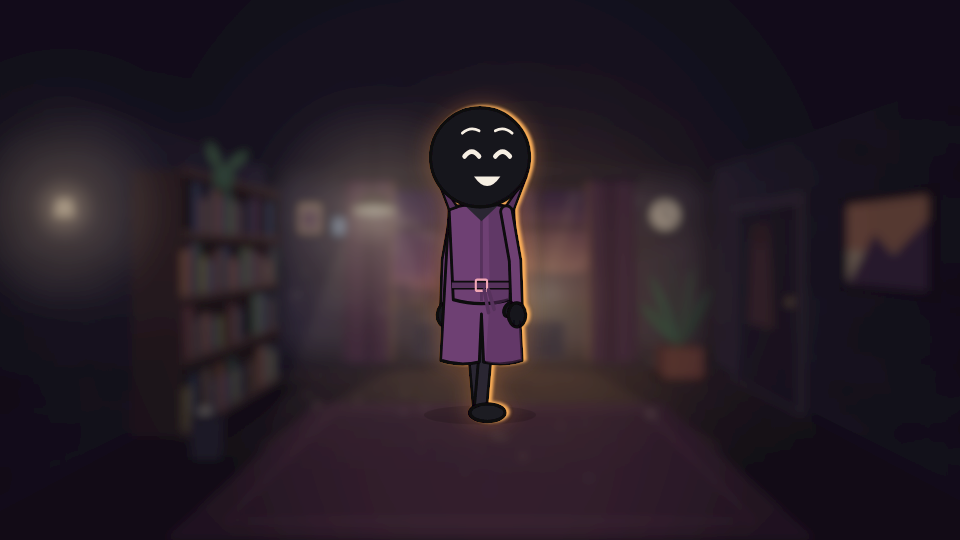
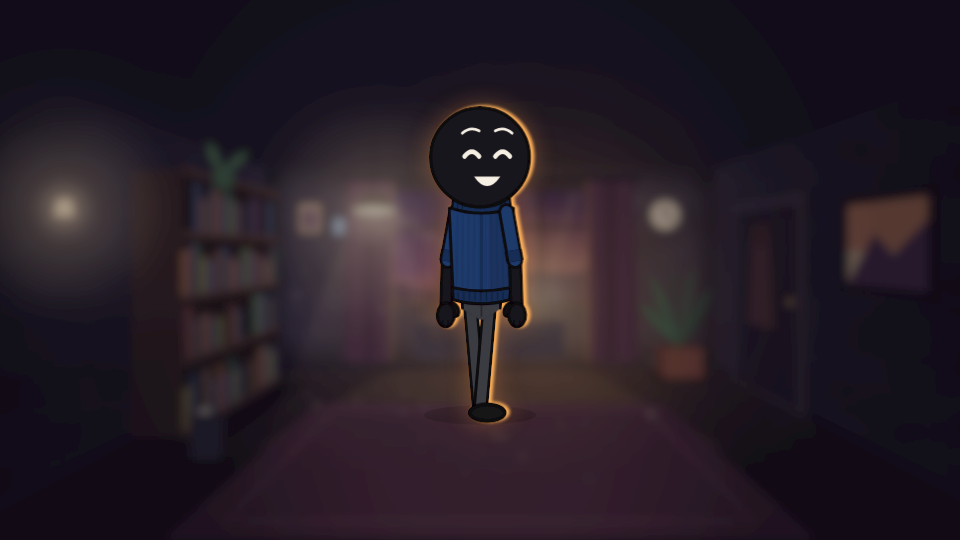
Hero outfit, open eyes, joined hips; only the hero is dressed, skins pure black or white
- The hero's outfit: a navy fine-knit mock-neck sweater (new coat: 'sweater',
  ribbed collar, hem and cuffs) with the sleeves pushed to the elbow (new
  sleeveLength: 'elbow'), charcoal trousers, black shoes.
- Eyes are clearly open at rest for every character; the calm curved line
  eyes now only show when smug, cool or tired.
- A trouser seat joins the tops of the thighs to the body, so no character
  has a gap at the crotch (stick-limbed looks excepted).
- New plain(look, tone?): no costume at all and a pure black or pure white
  skin. Rule in SKILL.md: only the hero wears clothes, every other character
  is plain(), and the person decides every outfit.

The shipped example episodes are unchanged.

Changed region(s): [[0.4375, 0.3259, 0.5625, 0.6815]]

diff --git a/studio/src/engine/rig.tsx b/studio/src/engine/rig.tsx
@@ -35,10 +35,13 @@ export type Look = {
   /** The item's main colour (defaults per item). */
   itemColor?: string;
   /** A jacket cut drawn over the torso (the plain top when unset). */
-  coat?: 'biker' | 'bomber' | 'denim' | 'long';
+  coat?: 'biker' | 'bomber' | 'denim' | 'long' | 'sweater';
   /** Arm colour, when the sleeves differ from the legs (a jacket's sleeves); defaults to limb. */
   sleeve?: string;
-  /** Face style: dot (the default), big (white eyes with pupils), bean (tall capsules), line (calm line eyes at rest). */
+  /** elbow: sleeves end at the elbow (pushed up), the forearm shows in the hand colour; full (default) to the wrist. */
+  sleeveLength?: 'full' | 'elbow';
+  /** Face style: dot (the default), big (white eyes with pupils), bean (tall capsules), line (open dots at rest, calm
+   *  curved line eyes when smug, cool or tired). */
   eyes?: 'dot' | 'big' | 'bean' | 'line';
   /** thick: heavy brows that are always on and carry the emotion. */
   brows?: 'thin' | 'thick' | 'slim';
@@ -46,6 +49,8 @@ export type Look = {
   blush?: boolean;
   /** A small lash flick at the outer corner of each eye. */
   lashes?: boolean;
+  /** No costume at all (set by plain()): no zip line on the body, no headphones. */
+  bare?: boolean;
   /** A single springy curl on top instead of the tuft; it reacts to the expression (stands up, droops, spins). */
   curl?: boolean;
   /** The face takes a soft colour wash per expression (warm when happy, blue when shocked...). */
@@ -57,16 +62,17 @@ export type Look = {
 };
 export type CastName = 'hero' | 'heroine' | 'pip' | 'pipHood' | 'pipInk' | 'mo' | 'sis' | 'mom' | 'suit';
 export const LOOKS: Record<CastName, Look> = {
-  // THE CHANNEL'S HERO (picked 2026-11-09): a dark, bald round head lit by the rim light, cream features that rest in
-  // calm curved line eyes (they open to dots when something happens) and slim, always-on arched brows that do the
-  // acting. The plum long coat is only the default outfit: costumes change per episode, e.g.
+  // THE CHANNEL'S HERO (picked 2026-11-09): a dark, bald round head lit by the rim light, cream features with eyes
+  // clearly open at rest (calm curved line eyes only when smug, cool or tired) and slim, always-on arched brows that
+  // do the acting. The navy mock-neck sweater (sleeves at the elbow), charcoal trousers and black shoes are only the default outfit: costumes change per
+  // episode, e.g.
   // { ...LOOKS.hero, coat: 'bomber', jacket: '#2F5D50', jacketShade: '#244A40', sleeve: '#2F5D50', accent: '#FFC266' }.
   // Keep the face (skin, face, eyes, brows, no hair) fixed: that is the identity.
   // THE CHANNEL'S FEMALE CHARACTER (supporting, cast only when a story needs her; the hero leads): the hero's face exactly, plus a short lash flick at the outer corner of each eye. That
   // face is fixed; her hair is free per episode (extra: 'ponytail' | 'topbun' | 'bob' | 'bunches' ..., colour in
   // hair, a shade lighter than the head so the shape reads), like the outfit.
   heroine: { skin: '#17141C', skinShade: '#0E0C12', hand: '#17141C', line: '#08070B', face: '#F6EFE3', hair: '#3A2E44', extra: 'ponytail', accent: '#F1A7B5', eyes: 'line', brows: 'slim', lashes: true, coat: 'denim', jacket: '#4A6FA5', jacketShade: '#3A5884', sleeve: '#4A6FA5', limb: '#2A2733', shoe: '#1C1B22' },
-  hero: { skin: '#17141C', skinShade: '#0E0C12', hand: '#17141C', line: '#08070B', face: '#F6EFE3', hair: '#17141C', eyes: 'line', brows: 'slim', coat: 'long', jacket: '#6E3F73', jacketShade: '#57315B', accent: '#F1A7B5', sleeve: '#6E3F73', limb: '#2A2733', shoe: '#1C1B22' },
+  hero: { skin: '#17141C', skinShade: '#0E0C12', hand: '#17141C', line: '#08070B', face: '#F6EFE3', hair: '#17141C', eyes: 'line', brows: 'slim', coat: 'sweater', jacket: '#1F3A6B', jacketShade: '#172D54', accent: '#1F3A6B', sleeve: '#1F3A6B', sleeveLength: 'elbow', limb: '#3A3A42', shoe: '#121216' },
   // A: Pip as built
   pip: { skin: C.skin, skinShade: C.skinShade, hand: C.skin, jacket: C.jacket, jacketShade: C.jacketShade, accent: C.jacketShade, limb: C.limb, line: C.ink, shoe: C.shoe, face: C.ink, hair: C.ink },
   // B: Pip in a dark hoodie with mustard drawstrings: the body goes dark and catches the rim light, the head stays the brightest thing
@@ -80,6 +86,46 @@ export const LOOKS: Record<CastName, Look> = {
   sis: { skin: C.skin, skinShade: C.skinShade, hand: C.skin, jacket: '#3E8C86', jacketShade: '#2F6E69', accent: '#F28C6A', limb: '#3A3446', line: '#14121C', shoe: '#F28C6A', face: C.ink, hair: '#3A2620', extra: 'bunches' },
   mom: { skin: C.skin, skinShade: C.skinShade, hand: C.skin, jacket: '#8A5A6A', jacketShade: '#704858', accent: '#E9C46A', limb: '#3A3446', line: '#14121C', shoe: '#5A4A6A', face: C.ink, hair: '#5A3226', extra: 'bob' },
   suit: { skin: '#D9C6AE', skinShade: '#C2AE96', hand: '#D9C6AE', jacket: '#2B2F3A', jacketShade: '#20232C', accent: '#A8323E', limb: '#2B2F3A', line: '#0E0F14', shoe: '#14151A', face: C.ink, hair: '#17141A', extra: 'suit' },
+};
+
+/** The channel's only two skin tones: fully black (cream features) or fully white (dark features). */
+export const TONES = {
+  black: { skin: '#17141C', skinShade: '#0E0C12', hand: '#17141C', line: '#08070B', face: '#F6EFE3' },
+  white: { skin: '#F7F4EE', skinShade: '#E4DFD6', hand: '#F7F4EE', line: '#15121C', face: '#1D2033' },
+};
+export type Tone = keyof typeof TONES;
+const isDark = (hex: string) => {
+  const n = parseInt(hex.replace('#', ''), 16);
+  const lum = (0.299 * ((n >> 16) & 255) + 0.587 * ((n >> 8) & 255) + 0.114 * (n & 255)) / 255;
+  return lum < 0.45;
+};
+
+/**
+ * A character with no costume and a pure black or pure white skin: the whole body takes the skin colour (a clean black
+ * or white stick silhouette), with no jacket, collar, sleeves, shoes, hat, hood, headphones or carried item. The face
+ * shape, hair and lashes stay. `tone` picks black or white; left out, a dark skin becomes black and a light one white.
+ * The channel's rule: in every episode, every character except the hero appears plain(...) unless the person asks
+ * for a specific outfit.
+ */
+export const plain = (look: Look, tone?: Tone): Look => {
+  const clothing: Look['extra'][] = ['hood', 'suit', 'bucket', 'beanie', 'cap', 'beret'];
+  const T = TONES[tone ?? (isDark(look.skin) ? 'black' : 'white')];
+  const L = { ...look, ...T };
+  return {
+    ...L,
+    jacket: L.skin,
+    jacketShade: L.skinShade,
+    accent: L.skin,
+    limb: L.skin,
+    shoe: L.skin,
+    sleeve: undefined,
+    sleeveLength: undefined,
+    coat: undefined,
+    item: undefined,
+    itemColor: undefined,
+    extra: clothing.includes(L.extra) ? undefined : L.extra,
+    bare: true,
+  };
 };
 
 // ---------- the hero ----------
@@ -275,7 +321,7 @@ const Face: React.FC<{ expr: Expr; blink: number; look: number; glasses: number;
           {expr === 'tired' ? <path d={`M ${cx - 12} ${eyeY + 15} Q ${cx} ${eyeY + 22} ${cx + 12} ${eyeY + 15}`} stroke="#8C7AA6" strokeWidth={4.5} fill="none" strokeLinecap="round" opacity={0.85} /> : null}
         </g>
       );
-    if (eyes === 'line' && (expr === 'neutral' || expr === 'smug' || expr === 'cool' || expr === 'tired'))
+    if (eyes === 'line' && (expr === 'smug' || expr === 'cool' || expr === 'tired'))
       return (
         <g>
           <path d={`M ${cx - 12} ${eyeY - 2} Q ${cx} ${eyeY + 6} ${cx + 12} ${eyeY - 2}`} stroke={ink} strokeWidth={5.5} fill="none" strokeLinecap="round" />
@@ -343,7 +389,7 @@ const Face: React.FC<{ expr: Expr; blink: number; look: number; glasses: number;
             if (farHidden && Math.sign(cx) === farSide) return null;
             const o = Math.sign(cx);
             // where the outer corner of this eye shape sits, then a short flick up and out from it
-            const calm = eyes === 'line' && (expr === 'neutral' || expr === 'smug' || expr === 'cool' || expr === 'tired');
+            const calm = eyes === 'line' && (expr === 'smug' || expr === 'cool' || expr === 'tired');
             const shut = blink >= 0.95;
             const [x0, y0] = expr === 'happy' ? [cx + o * 10, eyeY + 3] : calm || shut ? [cx + o * 12, eyeY - 2] : eyes === 'big' ? [cx + o * 13, eyeY - 9] : [cx + o * 6, eyeY - 7];
             return <path key={`lash${cx}`} d={`M ${x0} ${y0} q ${o * 3.5} -1.5 ${o * 6} -5.5`} stroke={ink} strokeWidth={3.4} fill="none" strokeLinecap="round" />;
@@ -419,6 +465,31 @@ export const Hero: React.FC<{ pose: Pose; shadow?: number; rimId?: string; look?
       </g>
     );
   };
+  const arm = (o: { root: P; mid: P; end: P }) => {
+    const sleeve = L.sleeve ?? L.limb;
+    if (L.sleeveLength !== 'elbow' || L.limbStyle === 'stick') return limb(o, 11, sleeve);
+    const up = `M ${o.root.x} ${o.root.y} L ${o.mid.x} ${o.mid.y}`;
+    const fore = `M ${o.mid.x} ${o.mid.y} L ${o.end.x} ${o.end.y}`;
+    const len = Math.hypot(o.mid.x - o.root.x, o.mid.y - o.root.y) || 1;
+    const ux = (o.mid.x - o.root.x) / len;
+    const uy = (o.mid.y - o.root.y) / len;
+    const band = `M ${o.mid.x - ux * 13} ${o.mid.y - uy * 13} L ${o.mid.x + ux * 1} ${o.mid.y + uy * 1}`;
+    return (
+      <g>
+        <path d={fore} stroke={L.line} strokeWidth={18} fill="none" strokeLinecap="round" />
+        <path d={fore} stroke={L.hand} strokeWidth={11} fill="none" strokeLinecap="round" />
+        <path d={up} stroke={L.line} strokeWidth={21} fill="none" strokeLinecap="round" />
+        <path d={up} stroke={sleeve} strokeWidth={14} fill="none" strokeLinecap="round" />
+        {L.coat === 'sweater' ? (
+          // the ribbed cuff, pushed up to the elbow
+          <g>
+            <path d={band} stroke={L.line} strokeWidth={22} strokeLinecap="butt" />
+            <path d={band} stroke={L.jacketShade} strokeWidth={15} strokeLinecap="butt" />
+          </g>
+        ) : null}
+      </g>
+    );
+  };
   const shoe = (o: { root: P; mid: P; end: P }) => (
     <ellipse cx={o.end.x + pose.facing * 9} cy={o.end.y + 4} rx={22} ry={11} fill={L.shoe} stroke={L.line} strokeWidth={4} />
   );
@@ -428,6 +499,13 @@ export const Hero: React.FC<{ pose: Pose; shadow?: number; rimId?: string; look?
     const ang = (Math.atan2(o.end.x - o.mid.x, o.end.y - o.mid.y) * 180) / Math.PI;
     return (
       <g transform={`translate(${o.end.x} ${o.end.y}) rotate(${-ang})`}>
+        {L.coat === 'sweater' && L.sleeveLength !== 'elbow' ? (
+          // the sweater's ribbed cuff, gathered at the wrist
+          <g>
+            <rect x={-10} y={-20} width={20} height={17} rx={5} fill={L.jacketShade} stroke={L.line} strokeWidth={3.5} />
+            <path d="M -4.5 -17 L -4.5 -6 M 0 -17 L 0 -6 M 4.5 -17 L 4.5 -6" stroke={L.line} strokeWidth={1.6} opacity={0.4} />
+          </g>
+        ) : null}
         {kind === 'point' ? (
           <g>
             <rect x={-4} y={10} width={8} height={24} rx={4} fill={L.hand} stroke={L.line} strokeWidth={3.5} />
@@ -463,7 +541,7 @@ export const Hero: React.FC<{ pose: Pose; shadow?: number; rimId?: string; look?
       ) : null}
       <path d="M -46 -112 Q 0 -124 46 -112 L 40 2 Q 0 12 -40 2 Z" fill={L.jacket} stroke={L.line} strokeWidth={4} strokeLinejoin="round" />
       <path d="M 10 -116 Q 30 -114 46 -112 L 40 2 Q 26 8 12 9 Z" fill={L.jacketShade} opacity={0.55} />
-      <path d="M 0 -112 L 0 4" stroke={L.jacketShade} strokeWidth={4} />
+      {L.bare ? null : <path d="M 0 -112 L 0 4" stroke={L.jacketShade} strokeWidth={4} />}
       {L.extra === 'suit' ? (
         // a white shirt in the V of the jacket and a tie in the accent colour
         <g>
@@ -474,6 +552,23 @@ export const Hero: React.FC<{ pose: Pose; shadow?: number; rimId?: string; look?
       ) : L.coat ? null : (
         <path d="M -22 -118 Q 0 -100 22 -118" stroke={L.accent} strokeWidth={6} fill="none" strokeLinecap="round" />
       )}
+      {L.coat === 'sweater' ? (
+        // a fine-knit mock-neck sweater: a ribbed band standing round the base of the neck, a soft vertical knit
+        // texture, a ribbed hem band; the cuffs are drawn at the wrists
+        <g>
+          {[-34, -26, -18, -10, -2, 6, 14, 22, 30].map((x) => (
+            <path key={x} d={`M ${x} -104 L ${x * 1.04} -14`} stroke={L.jacketShade} strokeWidth={1.6} opacity={0.45} />
+          ))}
+          <path d="M -41 -13 Q 0 -5 41 -13 L 40 2 Q 0 12 -40 2 Z" fill={L.jacketShade} stroke={L.line} strokeWidth={3.5} strokeLinejoin="round" />
+          {[-33, -25, -17, -9, -1, 7, 15, 23, 31].map((x) => (
+            <path key={`h${x}`} d={`M ${x} ${-9 + Math.abs(x) * 0.06} L ${x} ${4 - Math.abs(x) * 0.08}`} stroke={L.line} strokeWidth={1.6} opacity={0.35} />
+          ))}
+          <path d="M -42 -112 Q 0 -100 42 -112 L 40 -129 Q 0 -119 -40 -129 Z" fill={L.jacketShade} stroke={L.line} strokeWidth={3.5} strokeLinejoin="round" />
+          {[-34, -27, 27, 34].map((x) => (
+            <path key={`c${x}`} d={`M ${x} -125 L ${x} -111`} stroke={L.line} strokeWidth={1.6} opacity={0.4} />
+          ))}
+        </g>
+      ) : null}
       {L.coat === 'biker' ? (
         // a biker jacket: wide lapels, an off-centre zip in the accent (metal) colour, zipped pockets, a belt at the hem
         <g>
@@ -727,9 +822,18 @@ export const Hero: React.FC<{ pose: Pose; shadow?: number; rimId?: string; look?
         <g transform={`translate(0 ${LEG_LEN}) scale(${1 + 0.6 * pose.squash} ${1 - pose.squash}) translate(0 ${-LEG_LEN})`}>
           {/* the far side is drawn first, so a turned body overlaps itself the right way */}
           {pose.yaw < 0 ? <>{limb(j.legR, 12)}{shoe(j.legR)}{limb(j.legL, 12)}{shoe(j.legL)}</> : <>{limb(j.legL, 12)}{shoe(j.legL)}{limb(j.legR, 12)}{shoe(j.legR)}</>}
-          {pose.yaw < 0 ? <>{limb(j.armR, 11, L.sleeve ?? L.limb)}{hand(j.armR, -1, pose.handR)}</> : <>{limb(j.armL, 11, L.sleeve ?? L.limb)}{hand(j.armL, 1, pose.handL)}</>}
+          {L.limbStyle === 'stick' ? null : (
+            // the seat of the trousers: fills the crotch between the tops of the thighs so the legs join the body with
+            // no gap; outlined only at the hips (a bottom edge would cut across the thighs), a soft seam down the middle
+            <g transform={`translate(${pose.yaw * 6} 0) scale(${kw} 1)`}>
+              <path d="M -28 -10 L 28 -10 L 27 14 Q 14 21 3 27 L -3 27 Q -14 21 -27 14 Z" fill={L.limb} />
+              <path d="M -28 -10 L -27 13 M 28 -10 L 27 13" stroke={L.line} strokeWidth={4} strokeLinecap="round" />
+              <path d="M 0 6 L 0 22" stroke={L.line} strokeWidth={2.5} opacity={0.35} strokeLinecap="round" />
+            </g>
+          )}
+          {pose.yaw < 0 ? <>{arm(j.armR)}{hand(j.armR, -1, pose.handR)}</> : <>{arm(j.armL)}{hand(j.armL, 1, pose.handL)}</>}
           {torso}
-          {pose.yaw < 0 ? <>{limb(j.armL, 11, L.sleeve ?? L.limb)}{hand(j.armL, 1, pose.handL)}</> : <>{limb(j.armR, 11, L.sleeve ?? L.limb)}{hand(j.armR, -1, pose.handR)}</>}
+          {pose.yaw < 0 ? <>{arm(j.armL)}{hand(j.armL, 1, pose.handL)}</> : <>{arm(j.armR)}{hand(j.armR, -1, pose.handR)}</>}
           {L.extra === 'hood' ? (
             <g transform={`rotate(${pose.tilt}) rotate(${pose.headTilt * 0.5} 0 ${HEAD.y + 40})`}>
               <path d={`M -70 ${HEAD.y + 14} Q -80 ${HEAD.y - 74} 0 ${HEAD.y - 80} Q 80 ${HEAD.y - 74} 70 ${HEAD.y + 14} Q 52 -100 0 -106 Q -52 -100 -70 ${HEAD.y + 14} Z`} fill={L.jacket} stroke={L.line} strokeWidth={4} />
@@ -745,7 +849,7 @@ export const Hero: React.FC<{ pose: Pose; shadow?: number; rimId?: string; look?
               })()}
             </g>
           ) : null}
-          {L.extra === 'curls' ? (
+          {L.extra === 'curls' && !L.bare ? (
             <g transform={`rotate(${pose.tilt})`}>
               <path d="M -46 -110 Q 0 -86 46 -110" stroke="#E06A5A" strokeWidth={8} fill="none" strokeLinecap="round" />
               <rect x={-60} y={-126} width={20} height={32} rx={8} fill="#E06A5A" stroke={L.line} strokeWidth={4} />

diff --git a/studio/src/LibraryThumbs.tsx b/studio/src/LibraryThumbs.tsx
@@ -1,7 +1,7 @@
 import React from 'react';
 import { AbsoluteFill, useCurrentFrame } from 'remotion';
 import {
-  Hero, basePose, Pose, LOOKS, CastName, KitDefs, SetDefs,
+  Hero, basePose, plain, Pose, LOOKS, CastName, KitDefs, SetDefs,
   Study, Desk, Stairwell, Banister, Classroom, SchoolDesk, Rooftop, Kitchen, KitchenIsland, Bedroom, Schematic, PlantIcon, SchLabel, Tabletop,
 } from './engine';
 
@@ -12,7 +12,7 @@ import {
 
 const T = 40; // a settled moment of each set's idle motion
 
-const castThumb = (c: CastName): React.ReactNode => {
+const castThumb = (c: CastName, bare = false): React.ReactNode => {
   const s = c === 'sis' ? 1.3 : 1.6;
   const pose: Pose = { ...basePose, x: 960, y: 900 - 190 * s, scale: s, yaw: 0.3, look: 0.4, expr: 'happy' };
   return (
@@ -21,7 +21,7 @@ const castThumb = (c: CastName): React.ReactNode => {
         <Study t={0} id="thumb" />
       </g>
       <rect width={1920} height={1080} fill="#0B0816" opacity={0.35} />
-      <Hero look={LOOKS[c]} pose={pose} shadow={0.6} />
+      <Hero look={bare ? plain(LOOKS[c]) : LOOKS[c]} pose={pose} shadow={0.6} />
     </>
   );
 };
@@ -54,7 +54,7 @@ export const THUMBS: { file: string; draw: () => React.ReactNode }[] = [
   { file: 'cast-mom.png', draw: () => castThumb('mom') },
   { file: 'cast-suit.png', draw: () => castThumb('suit') },
   { file: 'cast-hero.png', draw: () => castThumb('hero') },
-  { file: 'cast-heroine.png', draw: () => castThumb('heroine') },
+  { file: 'cast-heroine.png', draw: () => castThumb('heroine', true) },
 ];
 
 export const LibraryThumbs: React.FC = () => {

diff --git a/studio/CATALOG.md b/studio/CATALOG.md
@@ -32,7 +32,7 @@ look on the cast sheet: `npx remotion still src/index.ts Cast out/cast.png`.
 
 | Look | Who | Notes | Thumb | Origin |
 |---|---|---|---|---|
-| `LOOKS.hero` | **the channel's hero** (the `Hero` default) | dark bald round head, cream calm line eyes, slim always-on arched brows; default outfit a plum long coat. Change the outfit per episode, never the face | `cast-hero.png` | channel |
+| `LOOKS.hero` | **the channel's hero** (the `Hero` default) | dark bald round head, cream eyes open at rest (curved line eyes when smug, cool or tired), slim always-on arched brows; outfit a navy mock-neck sweater with the sleeves at the elbow, charcoal trousers, black shoes. Change the outfit only when the person asks, never the face | `cast-hero.png` | channel |
 | `LOOKS.heroine` | the channel's female character (supporting, cast only when a story needs her; the hero leads) | the hero's face exactly plus a short lash flick at each outer eye corner (`lashes`). Hair is free per episode (`extra`: ponytail by default, or bob, topbun...; `hair` a shade lighter than the head), like the outfit. Never change the face | `cast-heroine.png` | channel |
 | `LOOKS.pipHood` | Pip, the shipped hero (B) | dark hoodie, mustard drawstrings | `cast-pipHood.png` | shipped |
 | `LOOKS.pip` | Pip (A) | mustard jacket | `cast-pip.png` | shipped |
@@ -47,15 +47,21 @@ Expressions (`expr`): neutral, happy, smug, shock, worried, oops, cool, dizzy, t
 
 ### Costume and face options (fields of a `Look`, all in `src/engine/rig.tsx`)
 
-Dress a character for an episode by spreading a look and overriding fields:
-`{ ...LOOKS.hero, coat: 'denim', jacket: '#4A6FA5', jacketShade: '#3A5884', sleeve: '#4A6FA5', accent: '#E2A15A' }`.
+**The rules: only the hero wears clothes, and every skin is pure black or pure white.** Every other character is
+drawn `plain(LOOKS.x)` or `plain(LOOKS.x, 'black' | 'white')` (`TONES` holds the two): no costume at all, the whole
+body fully black with cream features or fully white with dark features, face shape, hair and lashes kept. Without a
+tone, a dark skin becomes black and a light one white. Outfits are the
+person's call; when they ask for one, spread a look and override fields:
+`{ ...plain(LOOKS.heroine), coat: 'denim', jacket: '#4A6FA5', jacketShade: '#3A5884', sleeve: '#4A6FA5', limb: '#2A2733', shoe: '#1C1B22', bare: false }`.
 
 | Field | Options | Notes |
 |---|---|---|
-| `coat` | `biker`, `bomber`, `denim`, `long` | jacket cuts over the torso; set `sleeve` to the jacket colour so the arms match. `long` flares to mid-leg |
+| `plain(look, tone?)` | function | strips every costume piece (sets `bare`) and makes the skin pure `black` or `white`; the default for everyone but the hero |
+| `coat` | `biker`, `bomber`, `denim`, `long`, `sweater` | jacket cuts over the torso; set `sleeve` to the jacket colour so the arms match. `long` flares to mid-leg; `sweater` is a fine-knit mock neck with ribbed collar, hem and cuffs (the hero's) |
+| `sleeveLength` | `full`, `elbow` | `elbow`: sleeves pushed up, the forearm bare (the hero's) |
 | `extra` (head) | `hood`, `curls`, `bunches`, `bob`, `suit`, `bucket`, `topbun`, `beanie`, `cap`, `beret`, `ponytail` | the head piece; hats and hair use `hair` for their colour, bands use `accent`. Not for the hero (bald is its identity) unless the episode calls for a hat |
 | `item` | `satchel`, `stopwatch`, `headlamp`, `scarf`, `backpack` | carried on the rig in every pose; colour in `itemColor` |
-| `eyes` | `dot`, `big`, `bean`, `line` | `line`: calm curved eyes at rest that open to dots when something happens (the hero) |
+| `eyes` | `dot`, `big`, `bean`, `line` | every style is clearly open at rest; `line`: calm curved eyes only when smug, cool or tired (the hero) |
 | `brows` | `thin`, `thick`, `slim` | `slim`: fine, always-on arched brows that act (the hero) |
 | `blush`, `lashes`, `curl`, `moodTint`, `faceGlow` | booleans | rosy cheeks; a short lash flick at the outer eye corners (the heroine); a reactive curl on the crown; a colour wash per expression; glowing features for coloured faces on a dark head |
 | `limbStyle` | `tube`, `stick` | `stick`: single thin-line limbs with dot hands |

diff --git a/SKILL.md b/SKILL.md
@@ -30,10 +30,16 @@ schematic for the science beat, a cliffhanger blackout). Read the one closest to
   place, a prop, a character look, a power look) goes into `src/engine/`, gets its row and thumb in `CATALOG.md`, and
   is committed in the same episode (see "Adding to the library" at the end of the catalog). Never leave a reusable
   asset inside an episode's `shots.tsx`.
-- **The channel's hero is `LOOKS.hero`** (the `Hero` default): a dark bald round head, cream calm line eyes and slim
-  arched brows. Use it as the lead of every new episode. Its outfit changes per episode (see "Costume and face
-  options" in `CATALOG.md`); its face never does. `LOOKS.heroine` is a supporting character, not a lead: cast her
-  only when a story needs a woman (the same face plus short lashes, hair free per episode). Pip stays only in the two shipped examples.
+- **The channel's hero is `LOOKS.hero`** (the `Hero` default): a dark bald round head, cream eyes clearly open at
+  rest and slim arched brows. Use it as the lead of every new episode, in its default outfit (a navy mock-neck sweater
+  with the sleeves at the elbow, charcoal trousers, black shoes); its face never changes. `LOOKS.heroine` is a
+  supporting character, not a lead: cast her only when a story needs a woman (the same face plus short lashes).
+  Pip stays only in the two shipped examples.
+- **Only the hero wears clothes, and every skin is pure black or pure white.** Every other character in an episode
+  appears with no costume: draw it with `plain(LOOKS.x)` or `plain(LOOKS.x, 'black' | 'white')` (the whole body
+  fully black with cream features, or fully white with dark features; no jacket, shoes, hat, hood, headphones or
+  carried item; face shape, hair and lashes kept). No other skin tone appears in the channel's episodes. Never pick an outfit yourself, for the hero or anyone else: the person decides who wears what
+  and when, and you use exactly that (see "Costume and face options" in `CATALOG.md`).
 - **Original characters only.** The hero, the heroine, Pip and Mo are ours, and so are the sister, mum and
   the suit on the rig. Never a channel's own hero (no red hoodie, no white-disc eyes, no star glint in the eye), and nothing that resembles a famous cartoon character: check every
   new look on the cast sheet (Mo's first hat was dropped for drifting toward one).
